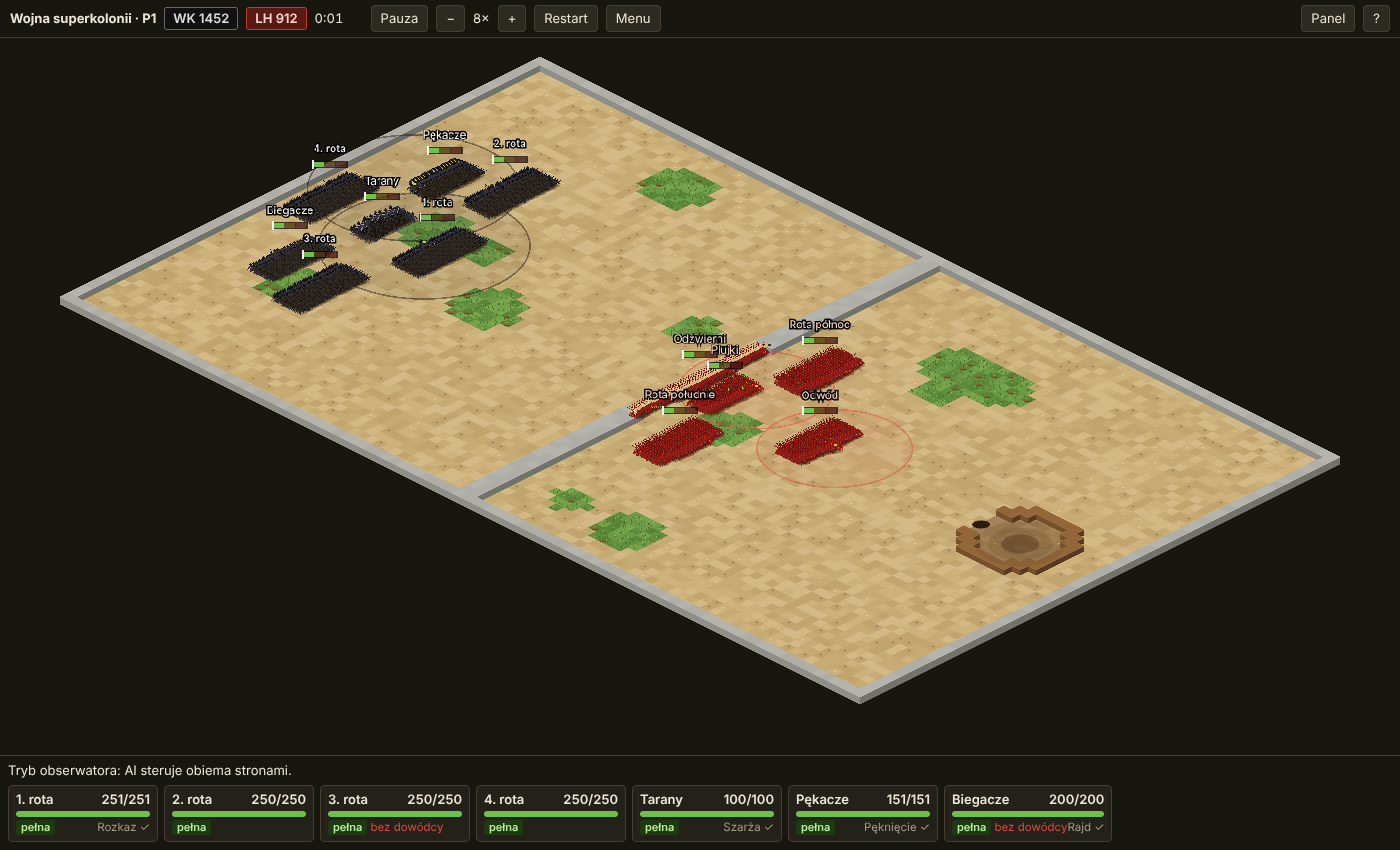
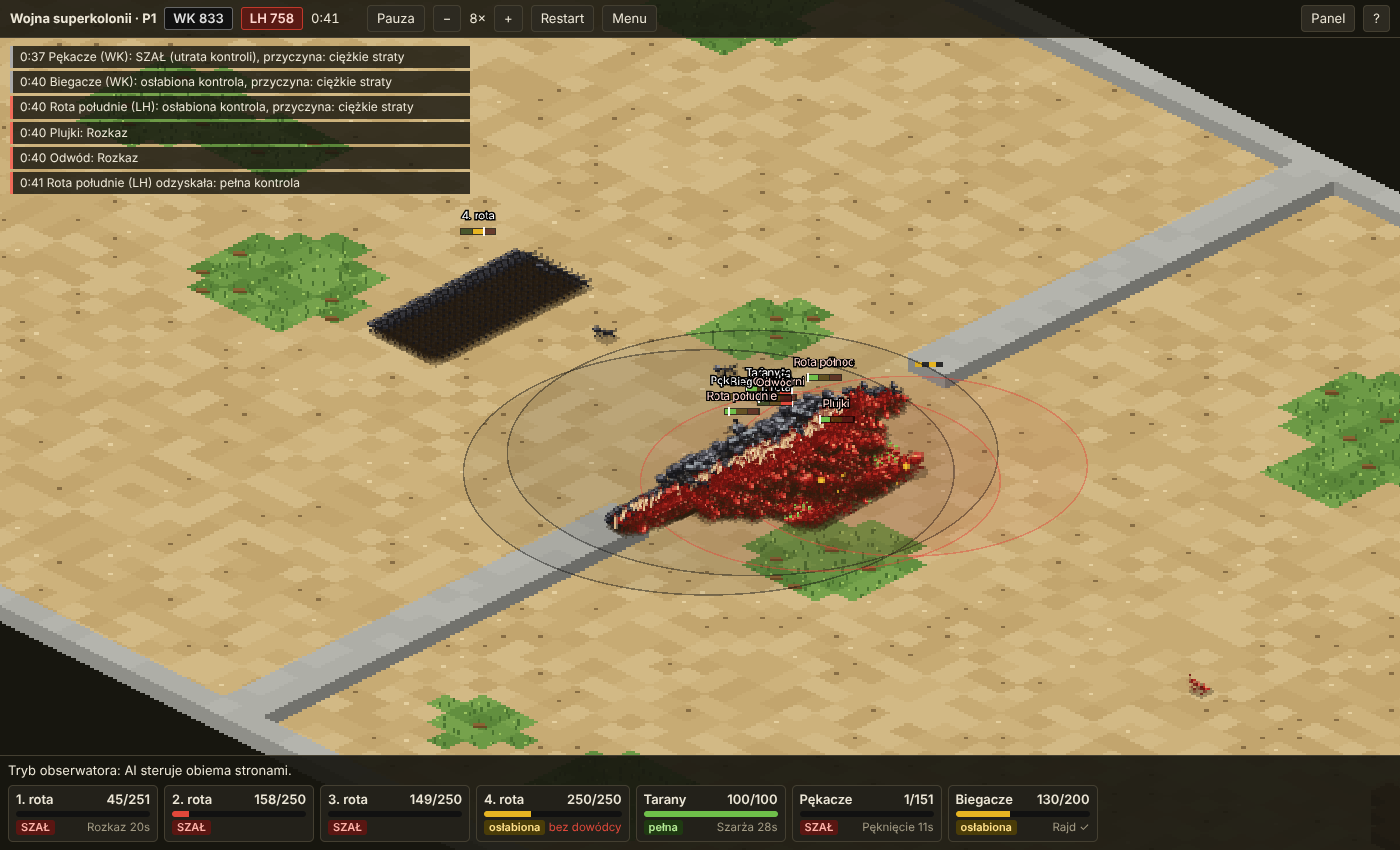
P1: naprawa zoomu kółkiem w widoku izometrycznym, limit kamery, sprite mrówki z prototypu A
Claude-Session: https://claude.ai/code/session_015bWVywXDmmptfndPZFffbj

diff --git a/prototypy/p1-bitwa.html b/prototypy/p1-bitwa.html
@@ -985,53 +985,38 @@ if (typeof module !== 'undefined') module.exports = Sim;
     LH: { body: '#b3261e', hi: '#f07a66', dark: '#6a120e', leg: '#8e1d17', acc: '#f2c27a' }
   };
   const DIRS = 16, CELLW = 32, CELLH = 24, AX = 16, AY = 15;
-  function disc(c, cx, cy, r, col) {
-    c.fillStyle = col; const R = Math.max(1, Math.round(r));
-    for (let y = -R; y <= R; y++) { const w = Math.round(Math.sqrt(Math.max(0, r * r + 0.3 - y * y))); if (w > 0) c.fillRect(Math.round(cx) - w + 1, Math.round(cy) + y, 2 * w - 1, 1); }
+  // Sprite mrówki: pixel art z odkopanego prototypu A (widok z boku, głowa w prawo), przemalowany na barwy frakcji,
+  // z nakładkami per typ jednostki i obracany do 16 kierunków rzutu izometrycznego.
+  const ANT_ROWS = ["........................","........................","........................","........................","........................","........................","........................","........................","........................","........................","........................","........................","........................","........................","........................","........................","........................",".....................0..","....................000.","....................0...","................1110....","....11t1...110..1100....","...12t110.12110.11100...","..122111001110000000.00.","..12110100.000.0....0...","...010000....0..0....0..","....0000.0.0.0..0.......","........0s0ss0ss.0......","......s0ss0ss0sss0......","......0ss0sss0ssss......","........ssssssss........","........................"];
+  const ANT_PAL = { WK: { '0': '#16161a', '1': '#34343a', '2': '#6c6c76', t: '#c9c9d2' }, LH: { '0': '#6a120e', '1': '#b3261e', '2': '#f07a66', t: '#f2c27a' } };
+  // [skala x, skala y, nakładki jako [x, y, szer, wys, kolor lub 'acc' lub 'tan']]
+  const ANT_TYPE = {
+    infantry: [0.5, 0.5, []],
+    taran: [0.78, 0.78, [[10, 21, 5, 2, 'acc'], [18, 21, 3, 1, 'acc'], [19, 20, 2, 1, 'acc']]],
+    biegacz: [0.58, 0.4, []],
+    pekacz: [0.62, 0.62, [[3, 22, 5, 3, '#e8c84a'], [4, 21, 3, 1, '#e8c84a'], [4, 25, 3, 1, '#c9a92f']]],
+    odzwierny: [0.7, 0.7, [[20, 19, 2, 8, 'tan'], [20, 19, 1, 8, 'tanhi']]],
+    plujka: [0.5, 0.5, [[2, 20, 2, 2, '#7bd34a'], [3, 19, 1, 1, '#b4f08a']]],
+    dowodca: [0.86, 0.86, [[11, 22, 3, 3, '#f2c230'], [22, 19, 1, 1, '#f2c230'], [23, 18, 1, 1, '#f2c230'], [21, 27, 1, 1, '#f2c230']]]
+  };
+  const antBase = {};
+  function antSprite(type, side) {
+    const key = side + type; if (antBase[key]) return antBase[key];
+    const cv = document.createElement('canvas'); cv.width = 24; cv.height = 32; const c = cv.getContext('2d'), pal = ANT_PAL[side];
+    for (let y = 0; y < 32; y++) for (let x = 0; x < 24; x++) { const ch = ANT_ROWS[y][x]; if (ch !== '.' && ch !== 's') { c.fillStyle = pal[ch]; c.fillRect(x, y, 1, 1); } }
+    for (const [x, y, w, h, col] of ANT_TYPE[type][2]) { c.fillStyle = col === 'acc' ? (side === 'WK' ? '#9aa0a6' : '#f2c27a') : col === 'tan' ? (side === 'LH' ? '#d9b27c' : '#8c8c94') : col === 'tanhi' ? (side === 'LH' ? '#f0d9b0' : '#b8b8c0') : col; c.fillRect(x, y, w, h); }
+    return (antBase[key] = cv);
   }
-  function ball(c, cx, cy, r, p) { disc(c, cx, cy, r, p.dark); disc(c, cx - 0.4, cy - 0.4, r - 0.7, p.body); if (r >= 1.8) disc(c, cx - r * 0.35, cy - r * 0.4, Math.max(0.8, r * 0.38), p.hi); }
+  const IMGSMOOTH = true;
   function drawIsoAnt(c, ox, oy, type, side, dir) {
-    const p = PAL[side], th = dir * Math.PI * 2 / DIRS, ca = Math.cos(th), sa = Math.sin(th);
-    const m = { infantry: 1.45, taran: 1.8, biegacz: 1.35, pekacz: 1.55, odzwierny: 1.7, plujka: 1.4, dowodca: 1.9 }[type] || 1.45;
-    // punkt lokalny (a wzdłuż kierunku, b w bok, z wysokość) -> piksel
-    const P = (a, b, z) => { const dx = a * ca - b * sa, dy = a * sa + b * ca; return [ox + AX + m * (dx - dy) * 0.5, oy + AY + m * (dx + dy) * 0.25 - z, dx + dy]; };
-    // cień rzucany: elipsa w prawo-dół
+    const th = dir * Math.PI * 2 / DIRS, vx = (Math.cos(th) - Math.sin(th)) * 0.5, vy = (Math.cos(th) + Math.sin(th)) * 0.25;
+    const flip = vx < 0, phi = Math.atan2(vy, flip ? -vx : vx), [sx, sy] = ANT_TYPE[type];
+    // cień rzucany w prawo-dół
     c.fillStyle = 'rgba(40,28,12,0.32)';
-    const sh = P(0, 0, 0), rw = 5.2 * m * 0.62, rh = 2.2 * m * 0.62;
-    for (let y = -Math.ceil(rh); y <= Math.ceil(rh); y++) { const w = Math.round(rw * Math.sqrt(Math.max(0, 1 - (y * y) / (rh * rh + 0.01)))); c.fillRect(Math.round(sh[0] + 1) - w, Math.round(sh[1] + 1) + y, 2 * w + 1, 1); }
-    const slim = type === 'biegacz', swell = type === 'pekacz', big = type === 'taran' || type === 'dowodca';
-    const abR = swell ? 3.6 : (slim ? 1.7 : 2.4), thR = slim ? 1.2 : 1.6, hdR = big ? 2.2 : (slim ? 1.3 : 1.7);
-    const abA = swell ? -5.2 : -4.2, hdA = 3.9;
-    const abZ = type === 'plujka' ? 5.4 : 2.6;
-    // nogi (trzy pary), pod ciałem
-    c.fillStyle = p.leg;
-    const reach = slim ? 5.4 : 4.2;
-    for (const a of [-1.2, 0.2, 1.6]) for (const b of [-1, 1]) {
-      const s = P(a, 0, 2.4), k = P(a + 0.8, b * reach * 0.8, 3.6), f = P(a + (a > 0 ? 1.8 : (a < 0 ? -1.8 : 0.4)), b * reach * 1.15, 0);
-      for (const [u, v] of [[s, k], [k, f]]) { const n = 6; for (let i = 0; i <= n; i++) c.fillRect(Math.round(u[0] + (v[0] - u[0]) * i / n), Math.round(u[1] + (v[1] - u[1]) * i / n), 1, 1); }
-    }
-    // części ciała od najdalszej do najbliższej kamery
-    const parts = [
-      { pt: P(abA, 0, abZ), r: abR, kind: 'ab' }, { pt: P(0, 0, 3.0), r: thR, kind: 'th' }, { pt: P(hdA, 0, 3.2), r: hdR, kind: 'hd' }
-    ].sort((u, v) => u.pt[2] - v.pt[2]);
-    for (const q of parts) {
-      ball(c, q.pt[0], q.pt[1], q.r, p);
-      if (q.kind === 'ab' && swell) disc(c, q.pt[0] - 0.4, q.pt[1] - 0.2, 1.7, '#e8c84a');
-      if (q.kind === 'ab' && type === 'plujka') { const t = P(abA - 1.6, 0, abZ + 1.2); disc(c, t[0], t[1], 1, '#7bd34a'); }
-      if (q.kind === 'th' && type === 'dowodca') { c.fillStyle = '#f2c230'; c.fillRect(Math.round(q.pt[0]) - 1, Math.round(q.pt[1]) - 2, 3, 2); }
-      if (q.kind === 'th' && type === 'taran') { c.fillStyle = p.acc; c.fillRect(Math.round(q.pt[0]) - 1, Math.round(q.pt[1]) - 2, 3, 1); }
-      if (q.kind === 'hd' && type === 'taran') { disc(c, q.pt[0] + (ca - sa) * 0.6, q.pt[1] - 1, 1.3, p.acc); }
-    }
-    // odźwierny: płaska głowa-czop prostopadle do kierunku
-    if (type === 'odzwierny') {
-      for (const b of [-3, -1.5, 0, 1.5, 3]) { const q = P(hdA + 1.2, b, 3.2); disc(c, q[0], q[1], 1.5, side === 'LH' ? '#d9b27c' : '#8c8c94'); }
-      const q = P(hdA + 1.4, 0, 3.4); disc(c, q[0] - 0.5, q[1] - 0.5, 1, side === 'LH' ? '#f0d9b0' : '#b8b8c0');
-    }
-    // czułki
-    c.fillStyle = p.dark;
-    const hp = P(hdA, 0, 3.2);
-    for (const b of [-1, 1]) { const a1 = P(hdA + 2.4, b * 1.6, 4.4), a2 = P(hdA + 3.6, b * 2.6, 5.4); c.fillRect(Math.round(a1[0]), Math.round(a1[1]), 1, 1); c.fillRect(Math.round(a2[0]), Math.round(a2[1]), 1, 1); }
-    if (type === 'dowodca') { c.fillStyle = '#f2c230'; for (const b of [-1, 1]) { const a3 = P(hdA + 3.8, b * 2.8, 5.8); c.fillRect(Math.round(a3[0]), Math.round(a3[1]), 1, 1); } }
+    const rw = 7 * sx + 1, rh = 3 * sx + 0.8;
+    for (let y = -Math.ceil(rh); y <= Math.ceil(rh); y++) { const w = Math.round(rw * Math.sqrt(Math.max(0, 1 - (y * y) / (rh * rh + 0.01)))); c.fillRect(Math.round(ox + AX + 1) - w, Math.round(oy + AY + 2) + y, 2 * w + 1, 1); }
+    c.save(); c.translate(ox + AX, oy + AY); if (flip) c.scale(-1, 1); c.rotate(phi * 0.8); c.scale(sx, sy); c.imageSmoothingEnabled = IMGSMOOTH;
+    c.drawImage(antSprite(type, side), -12, -24); c.restore();
   }
   const TYPE_LIST = Object.keys(DEFS0.units);
   function makeAntAtlas() {
@@ -1105,7 +1090,14 @@ if (typeof module !== 'undefined') module.exports = Sim;
     const w = app.screen.width, h = app.screen.height - 150, cw = (S.sim.W + S.sim.H) * 0.5 + ISO.pad * 2, ch = (S.sim.W + S.sim.H) * 0.25 + ISO.pad * 2 + 12, z = Math.min(w / cw, h / ch);
     cam.z = z; cam.x = (w - cw * z) / 2; cam.y = 40 + (h - ch * z) / 2; applyCam();
   }
-  function applyCam() { world.scale.set(cam.z); world.position.set(cam.x, cam.y); }
+  // kamera nie może uciec poza mapę: co najmniej 120 px zawartości zostaje na ekranie
+  function applyCam() {
+    if (S.sim) {
+      const cw = (S.sim.W + S.sim.H) * 0.5 + ISO.pad * 2, ch = (S.sim.W + S.sim.H) * 0.25 + ISO.pad * 2 + 12, m = 120;
+      cam.x = Math.min(app.screen.width - m, Math.max(m - cw * cam.z, cam.x)); cam.y = Math.min(app.screen.height - m, Math.max(m - ch * cam.z, cam.y));
+    }
+    world.scale.set(cam.z); world.position.set(cam.x, cam.y);
+  }
   const toContainer = (sx, sy) => [(sx - cam.x) / cam.z, (sy - cam.y) / cam.z];
   const toWorld = (sx, sy) => { const [cx, cy] = toContainer(sx, sy); return [ISO.wx(cx, cy), ISO.wy(cx, cy)]; };
 
@@ -1182,8 +1174,8 @@ if (typeof module !== 'undefined') module.exports = Sim;
   });
   view.addEventListener('wheel', (e) => {
     e.preventDefault(); const r = view.getBoundingClientRect(), sx = e.clientX - r.left, sy = e.clientY - r.top;
-    const [wx, wy] = toWorld(sx, sy), nz = Math.max(0.4, Math.min(8, cam.z * (e.deltaY < 0 ? 1.15 : 1 / 1.15)));
-    cam.z = nz; cam.x = sx - wx * nz; cam.y = sy - wy * nz; applyCam();
+    const [cx, cy] = toContainer(sx, sy), nz = Math.max(0.4, Math.min(8, cam.z * (e.deltaY < 0 ? 1.15 : 1 / 1.15)));
+    cam.z = nz; cam.x = sx - cx * nz; cam.y = sy - cy * nz; applyCam();
   }, { passive: false });
   const keys = {};
   window.addEventListener('keydown', (e) => {

diff --git a/tests/p1-browser.test.js b/tests/p1-browser.test.js
@@ -17,6 +17,20 @@ const { openPage, ROOT } = require('./browser-lib');
     const nonBg = await page.evaluate(() => { const c = __P1.app.view; const t = document.createElement('canvas'); t.width = 64; t.height = 40; t.getContext('2d').drawImage(c, 0, 0, 64, 40); const d = t.getContext('2d').getImageData(0, 0, 64, 40).data; let n = 0; for (let i = 0; i < d.length; i += 4) if (d[i] > 120) n++; return n; }).catch(() => -1);
     assert.ok(png.length > 20000, 'zrzut ekranu wygląda na pusty');
 
+    // kółko myszy: punkt pod kursorem zostaje pod kursorem, a mapa nie ucieka z ekranu (regresja: zoom przy widoku izometrycznym)
+    const under = () => page.evaluate(([mx, my]) => { const c = __P1.cam; return [(mx - c.x) / c.z, (my - c.y) / c.z, c.z, c.x, c.y]; }, [700, 380]);
+    const u0 = await under(); await page.mouse.move(700, 380);
+    for (let i = 0; i < 5; i++) await page.mouse.wheel(0, -240);
+    await page.waitForTimeout(200); const u1 = await under();
+    assert.ok(u1[2] > u0[2] * 1.5, 'zoom nie działa');
+    assert.ok(Math.abs(u1[0] - u0[0]) < 1 && Math.abs(u1[1] - u0[1]) < 1, 'punkt pod kursorem uciekł: ' + u0 + ' → ' + u1);
+    for (let i = 0; i < 12; i++) await page.mouse.wheel(0, 300);
+    await page.waitForTimeout(200);
+    const u2 = await page.evaluate(() => { const c = __P1.cam, w = __P1.app.screen; return [c.x, c.y, w.width, w.height]; });
+    assert.ok(u2[0] < u2[2] && u2[1] < u2[3], 'kamera uciekła poza ekran');
+    ok('kółko myszy przybliża wokół kursora i nie gubi mapy', 'zoom ' + u0[2].toFixed(2) + ' → ' + u1[2].toFixed(2));
+    await page.evaluate(() => __P1.S.sim && (function () { const c = __P1.cam; }()));
+
     // pauza + rozkaz w pauzie
     await page.keyboard.press('Space');
     const t0 = await page.evaluate(() => __P1.S.sim.tick);
@@ -51,7 +65,7 @@ const { openPage, ROOT } = require('./browser-lib');
     ok('grupy pod klawiszami (Ctrl+1, 1)');
 
     // zaznaczanie ramką
-    await page.evaluate(() => __P1.S.selected.clear());
+    await page.evaluate(() => { __P1.startBattle(); __P1.S.selected.clear(); }); // startBattle ustawia kamerę na całą mapę
     await page.mouse.move(120, 120); await page.mouse.down(); await page.mouse.move(520, 800); await page.mouse.up();
     const nsel = await page.evaluate(() => __P1.S.selected.size);
     assert.ok(nsel >= 4, 'ramka zaznaczyła ' + nsel + ' rot');

diff --git a/docs/wnioski-p1.md b/docs/wnioski-p1.md
@@ -35,6 +35,6 @@ Wnioski z liczb:
 ## Nie zweryfikowane
 - Czy to jest fajne: czy dowodzenie rotami bawi, czy unikaty są czytelne w ruchu, czy po trzech bitwach da się powiedzieć, dlaczego się wygrało. Wymaga gry człowieka.
 - Wydajność 50 klatek/s przy 4000 mrówek w Chrome na typowym PC. Zmierzono tylko krok symulacji w Node: ok. 3900 mrówek, mediana 22 ms, p99 63 ms przy budżecie 50 ms (20 Hz), czyli krok bywa blisko budżetu w największym tłoku. Renderer w piaskownicy jest programowy (kilka klatek/s), więc FPS tu nic nie mówi.
-- Plik `wojna-superkolonii-prototyp-a-feromony.html` z 15.1 nie był dostępny, a użytkownik ocenił go jako słabej jakości, więc rysowanie izometryczne napisano od nowa (blok `ISO-BEGIN`/`ISO-END` w `p1-bitwa.html`, do skopiowania do P2 i P3): rzut 2:1, kafle 16x8 px, mury jako niskie krawężniki, mrówki w 16 kierunkach generowane proceduralnie w trzech tonach z cieniem rzucanym. Podgląd: `docs/wyniki/p1-widok-izometryczny.png`.
+- Plik `wojna-superkolonii-prototyp-a-feromony.html` z 15.1 nie był dostępny, a użytkownik ocenił go jako słabej jakości, więc rysowanie izometryczne napisano od nowa (blok `ISO-BEGIN`/`ISO-END` w `p1-bitwa.html`, do skopiowania do P2 i P3): rzut 2:1, kafle 16x8 px, mury jako niskie krawężniki, mrówki w 16 kierunkach zbudowane z odkopanego sprite'a mrówki z prototypu A (przemalowanego na czerń i czerwień, z nakładkami per typ jednostki i obrotem pod rzut izometryczny) z cieniem rzucanym. Podgląd: `docs/wyniki/p1-widok-izometryczny.png`.
 - Grafika zastępcza jest tymczasowa; AI jest proste (WK nie omija strefy kwasu, co jest główną przyczyną ich strat).
 - Dźwięk, kampania, ekonomia, lotnictwo, wnętrze gniazda, splot i beczki są poza zakresem P1.
